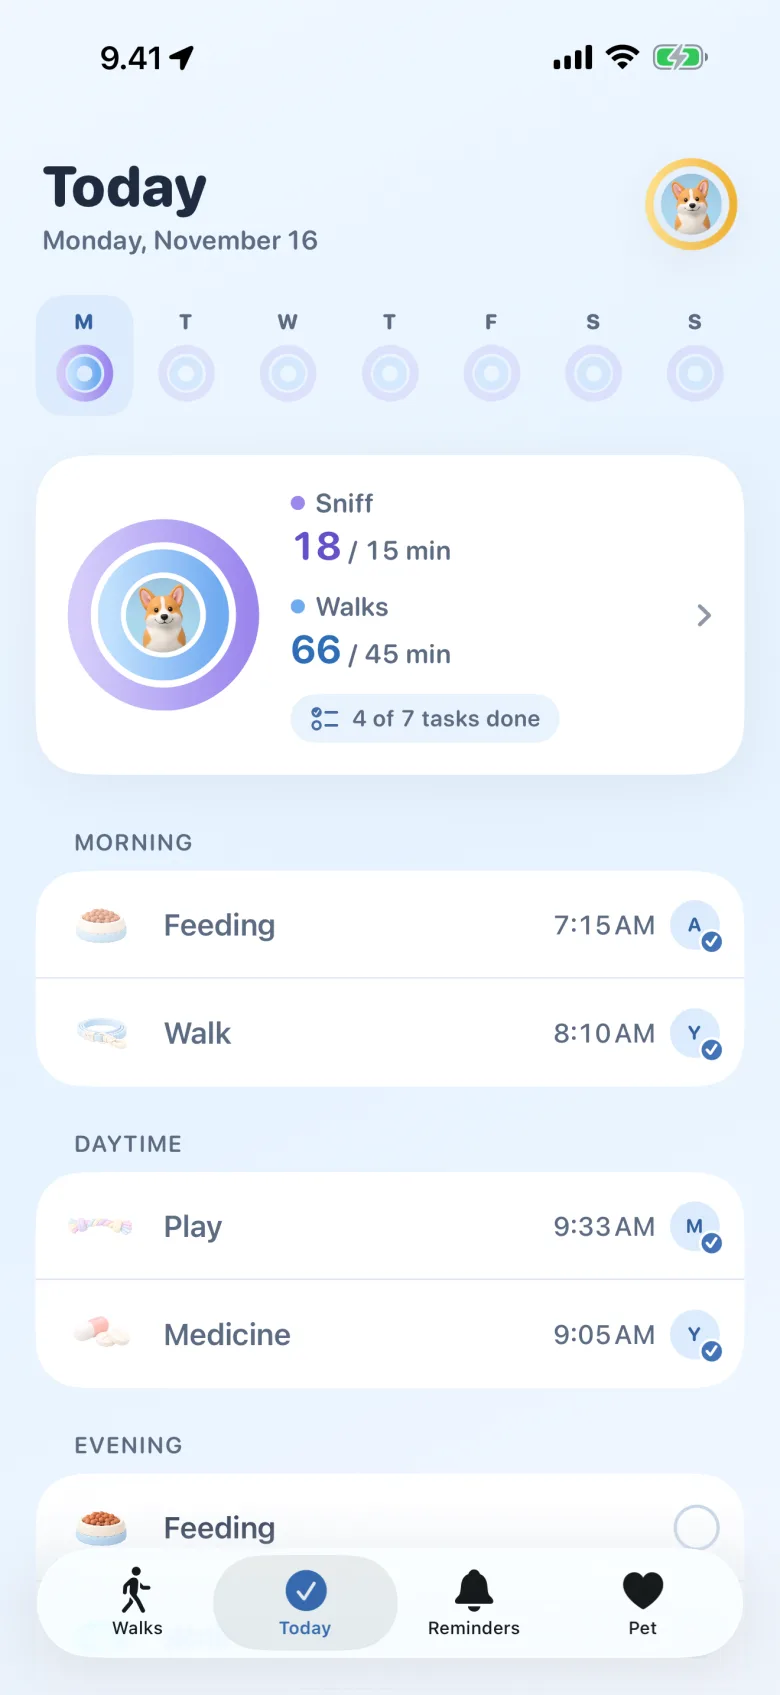
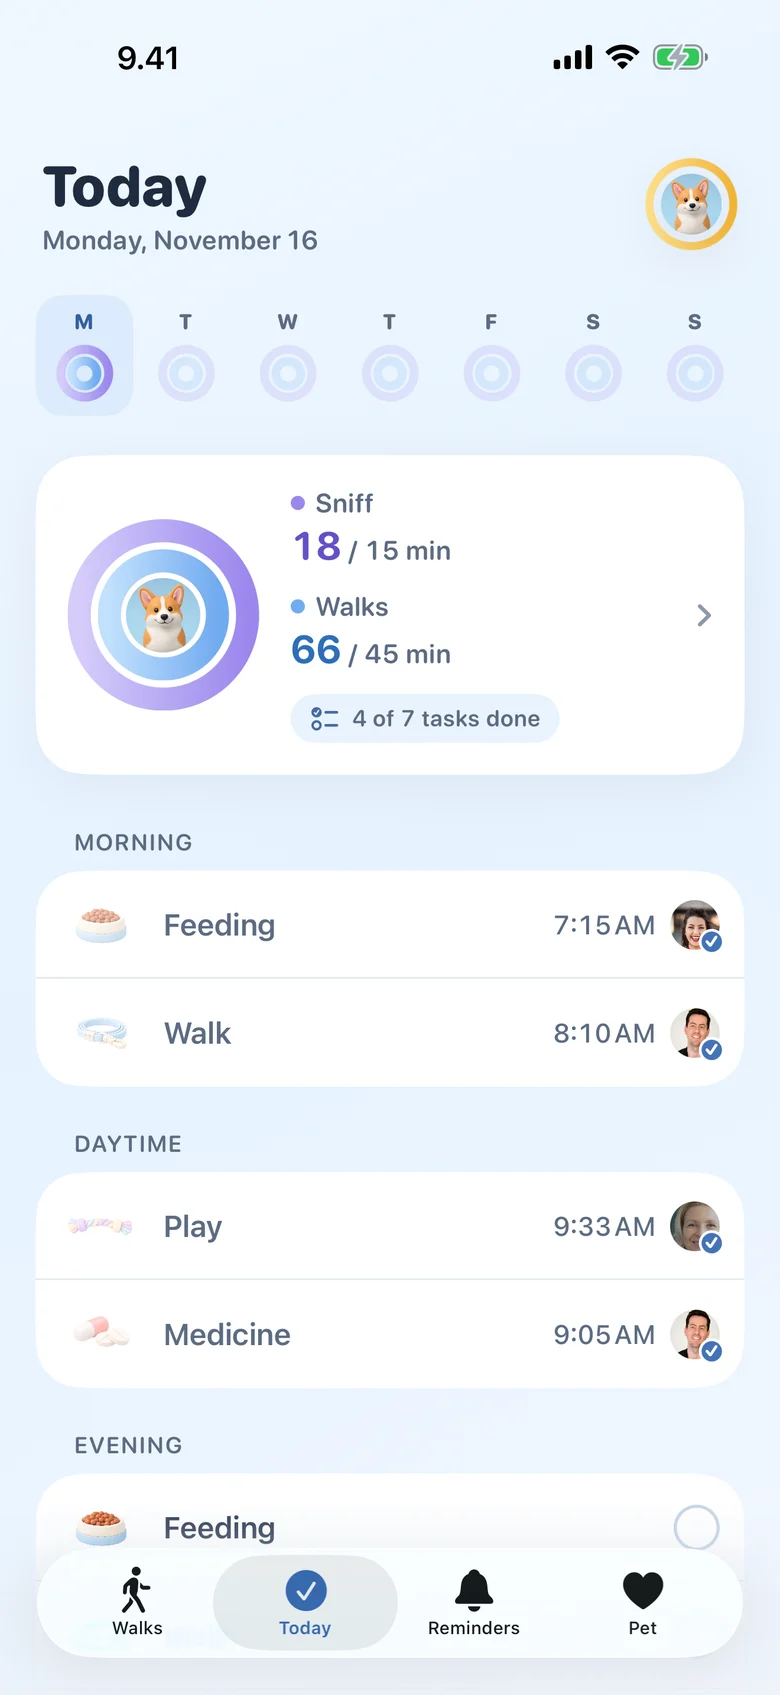
Show real member photos in the website screenshots
The household screenshots now use stock portraits (Unsplash Licence) instead of initials.

diff --git a/index.html b/index.html
@@ -63,10 +63,10 @@
 
     <section class="wrap" aria-label="App screens">
       <div class="showcase">
-        <figure class="shot"><img src="/img/screen-pet.webp?v=6" alt="Pet screen with the dog’s world map, family and today’s rings" width="390" height="847" /></figure>
-        <figure class="shot shot-raised"><img src="/img/screen-today.webp?v=6" alt="Today: sniff and walk rings and the day’s care, each with who did it" width="390" height="847" /></figure>
-        <figure class="shot"><img src="/img/screen-bond.webp?v=6" alt="Bond ring closed: three moments with your dog today" width="390" height="847" loading="lazy" /></figure>
-        <figure class="shot shot-raised"><img src="/img/screen-household.webp?v=6" alt="Household screen with members and an invite QR code" width="390" height="847" loading="lazy" /></figure>
+        <figure class="shot"><img src="/img/screen-pet.webp?v=7" alt="Pet screen with the dog’s world map, family and today’s rings" width="390" height="847" /></figure>
+        <figure class="shot shot-raised"><img src="/img/screen-today.webp?v=7" alt="Today: sniff and walk rings and the day’s care, each with who did it" width="390" height="847" /></figure>
+        <figure class="shot"><img src="/img/screen-bond.webp?v=7" alt="Bond ring closed: three moments with your dog today" width="390" height="847" loading="lazy" /></figure>
+        <figure class="shot shot-raised"><img src="/img/screen-household.webp?v=7" alt="Household screen with members and an invite QR code" width="390" height="847" loading="lazy" /></figure>
       </div>
     </section>
 
@@ -110,7 +110,7 @@
 
         <article class="tile">
           <header><h3>A bigger world, street by street</h3><p>Every new street joins the map, from the yard to the whole neighbourhood.</p></header>
-          <div class="tile-visual peek"><img src="/img/screen-world.webp?v=6" alt="" loading="lazy" /></div>
+          <div class="tile-visual peek"><img src="/img/screen-world.webp?v=7" alt="" loading="lazy" /></div>
         </article>
       </div>
     </section>
@@ -128,7 +128,7 @@
         <p class="soft">PawTails helps your family keep track. It isn’t veterinary advice: ask your vet about medicine and health.</p>
       </div>
       <div class="split-visual">
-        <figure class="shot"><img src="/img/screen-today.webp?v=6" alt="" width="390" height="847" loading="lazy" /></figure>
+        <figure class="shot"><img src="/img/screen-today.webp?v=7" alt="" width="390" height="847" loading="lazy" /></figure>
       </div>
     </section>
 
@@ -144,7 +144,7 @@
         </ul>
       </div>
       <div class="split-visual">
-        <figure class="shot"><img src="/img/screen-household.webp?v=6" alt="" width="390" height="847" loading="lazy" /></figure>
+        <figure class="shot"><img src="/img/screen-household.webp?v=7" alt="" width="390" height="847" loading="lazy" /></figure>
       </div>
     </section>
 
